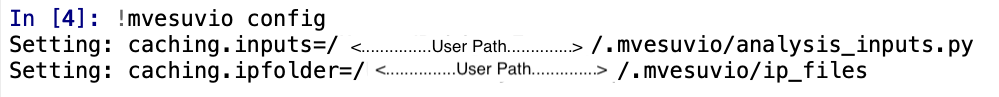
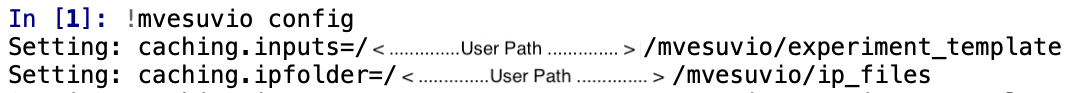
Remove references to analysis_input.py from documentation and tests

diff --git a/tests/unit/analysis/test_main.py b/tests/unit/analysis/test_main.py
@@ -12,9 +12,9 @@ class TestParser(unittest.TestCase):
         self.parser = _set_up_parser()
 
     def test_set_up_parser_config(self):
-        args = self.parser.parse_args(["config", "--experiment-dir", "analysis_inputs.py", "--ip-dir", "mock_ip_folder"])
+        args = self.parser.parse_args(["config", "--experiment-dir", "mock_experiment_template", "--ip-dir", "mock_ip_folder"])
 
-        self.assertEqual(args.experiment_dir, "analysis_inputs.py")
+        self.assertEqual(args.experiment_dir, "mock_experiment_template")
         self.assertEqual(args.ip_dir, "mock_ip_folder")
 
     def test_set_up_parser_config_defaults(self):

diff --git a/README.md b/README.md
@@ -10,7 +10,7 @@ This repository contains:
 - `mvesuvio` package containing Neutron Compton Profile (NCP) analysis procedures for Vesuvio, published nightly.
 - Vesuvio calibration scripts, under the `tools` folder
 
-Currently only the NCP analysis is usable, the calibration scripts are not yet ready. 
+Currently, only the NCP analysis is usable, the calibration scripts are not yet ready. 
 
 ## Installing mvesuvio package (Try this option first)
 The `mvesuvio` package is meant to be used inside the [Mantid software](https://www.mantidproject.org/index.html), so you'll need to install Mantid first if you haven't.
@@ -38,7 +38,7 @@ To do all the necessary setup, type:
 
 If you see some output then the package is successfully installed and setup!
 
-**WARNING: This way of installing the package is not officially supported by Mantid, it just so happens to work. As you can see above, a folder *C:\<User Path>\Lib\site-packages* is created after the installation. However, this folder does not contain the analysis_inputs.py script. This script is contained in the .mvesuvio folder that is usually created by the installation under *C:\Users\<fedid>\.mvesuvio*. If after the pip installation the folder .mvesuvio has not been created under *C:\Users\<fedid>\.mvesuvio* you can try to copy it from another computer on which installation was successful. Try to run analysis_inputs.py from the newly copied .mvesuvio folder and check the inputs and outputs created.**
+**WARNING: This way of installing the package is not officially supported by Mantid, it just so happens to work. As you can see above, a folder *C:\<User Path>\Lib\site-packages* is created after the installation. However, this folder does not contain the run scripts. Those scripts are contained in the .mvesuvio folder that is usually created by the installation under *C:\Users\<fedid>\.mvesuvio*. If after the pip installation the folder .mvesuvio has not been created under *C:\Users\<fedid>\.mvesuvio* you can try to copy it from another computer on which installation was successful. Try to open run_fitting.py from the newly copied .mvesuvio folder and check the inputs and outputs are created when the script is run.**
 
 ### Installing mantid and mvesuvio using conda/mamba (If the first option failed)
 
@@ -199,7 +199,8 @@ So for example to set the configuration from a Python script (or from `IPython` 
 import mvesuvio
 mvesuvio.config(experiment_dir='C:\Vesuvio\experiment', ip_dir='C:\IPFolder')
 ```
-In fact, this functionality is what you see at the end of the `analysis_inputs.py` file, which sets the experiment directory based on the currently opened script location:
+
+Use the following to set the experiment directory based on the currently opened script location:
 
 ```
 import mvesuvio

diff --git a/USERGUIDE.md b/USERGUIDE.md
@@ -8,7 +8,7 @@ In this section, it is assumed that the user is familiar with the basic theory o
 
 ## The package 
 
-All parameters and constraints are to be stored in the *analysis_input* script, which is the template for such analysis and fit. **WARNING**: Each mvesuvio routine run should have a unique script. Change the name of the script to the name of your sample (and other relevant information) each time you run it again. This prevents from losing previous results. Also, all the generated workspaces will start by the name given to the script.
+All parameters and constraints are to be stored in the run scripts in the *experiment_template* folder, which is the template for such analysis and fit. **WARNING**: Each mvesuvio routine run should have a unique script. Change the name of the script to the name of your sample (and other relevant information) each time you run it again. This prevents from losing previous results. Also, all the generated workspaces will start by the name given to the script.
 
 An example applied to Barium Titanate Oxyhydride ($BaTiO_{3-x}H_x$) in a Vanadium windows clamped cell will be used for demonstration.
 
